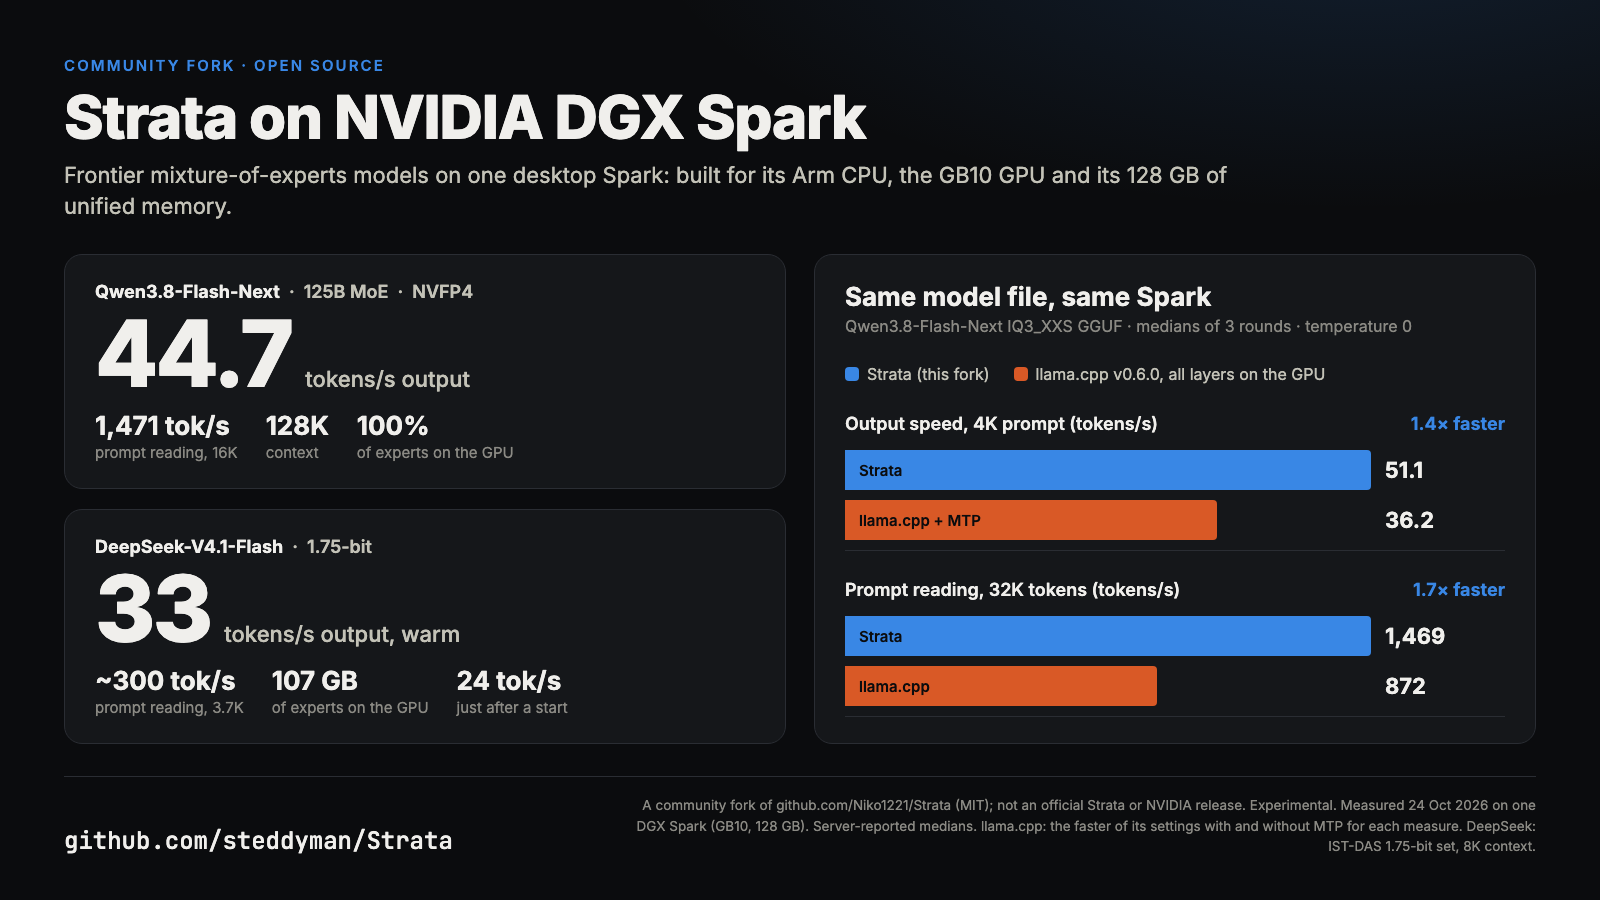
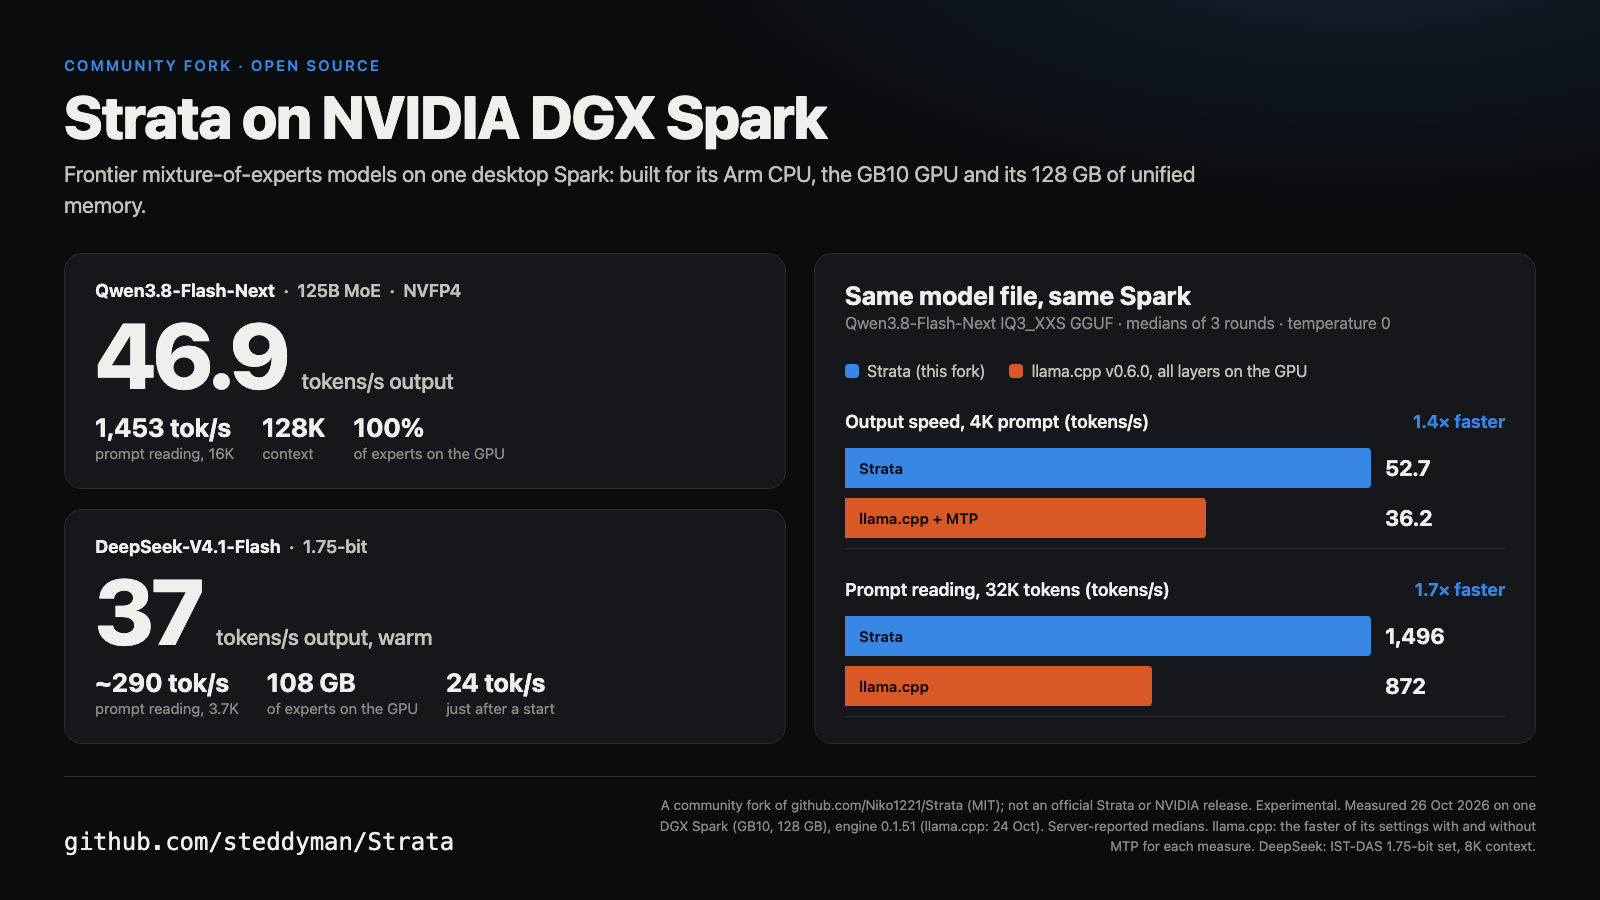
DGX Spark: README, guide and infographic with the 26 October speeds (engine 0.1.51)
Re-measured with each row's own method on engine 0.1.51 and the Spark speed settings:
Qwen NVFP4 chat 46.9 tok/s (was 44.7), prompts 1,312 / 1,453 tok/s (4K / 16K);
IQ3_XXS 52.7 tok/s (was 51.1), prompts 1,258 / 1,496 tok/s (4K / 32K);
DeepSeek 1.75 bpw 37 tok/s warm (was 33); 2.00 bpw unchanged (27.7).
spark/build_engine.sh uses Make when there is no ninja (a stock DGX OS).

diff --git a/docs/DGX_SPARK.md b/docs/DGX_SPARK.md
@@ -10,9 +10,9 @@ the engine (about 1.5 minutes on the Spark) and start Strata with `./setup.sh`.
 
 | Model | Answers | Reading your prompt | Context | Download | Quality |
 | --- | --- | --- | --- | --- | --- |
-| **Qwen3.8-Flash-Next NVFP4** | **44.7 tokens/s** | 1,330 tokens/s (4K) · 1,471 tokens/s (16K) | 128K, reads pictures | 128 GB | The best Qwen: closest to the full model |
-| **Qwen3.8-Flash-Next IQ3_XXS** | **51.1 tokens/s** | 1,266 tokens/s (4K) · 1,469 tokens/s (32K) | 64K as measured | 76 GB | 3-bit: smaller and faster, lower quality |
-| **DeepSeek-V4.1-Flash 1.75-bit** | **33 tokens/s** once warm (24 just after starting) | 195-300 tokens/s (3.7K) · 403 tokens/s (31K) | 8K by default, 128K tested* | 239 GB | Good for code and agents, weaker on plain prose |
+| **Qwen3.8-Flash-Next NVFP4** | **46.9 tokens/s** | 1,312 tokens/s (4K) · 1,453 tokens/s (16K) | 128K, reads pictures | 128 GB | The best Qwen: closest to the full model |
+| **Qwen3.8-Flash-Next IQ3_XXS** | **52.7 tokens/s** | 1,258 tokens/s (4K) · 1,496 tokens/s (32K) | 64K as measured | 76 GB | 3-bit: smaller and faster, lower quality |
+| **DeepSeek-V4.1-Flash 1.75-bit** | **37 tokens/s** once warm (24 just after starting) | 195-290 tokens/s (3.7K) · 403 tokens/s (31K) | 8K by default, 128K tested* | 239 GB | Good for code and agents, weaker on plain prose |
 | **DeepSeek-V4.1-Flash 2.00-bit** | **28 tokens/s** once warm (17 just after starting) | 175 tokens/s (3.7K) | 8K by default* | 257 GB | Better than 1.75-bit, slower here |
 
 On the same model file (IQ3_XXS) and the same Spark, Strata answers **1.4x faster** and reads a 32K prompt **1.7x
@@ -22,7 +22,8 @@ faster** than llama.cpp v0.6.0 ([the comparison](../bench/results/2026-10-24-dgx
 [Give DeepSeek a longer context](#give-deepseek-a-longer-context).
 
 "Answers" is how fast the reply is written. "Reading your prompt" is how fast Strata reads what you send before it
-starts to answer. All numbers are medians from one DGX Spark on 24 October 2026; the details are in
+starts to answer. All numbers are medians from one DGX Spark, engine 0.1.51 with the Spark speed settings, 26 October
+2026 (the "just after starting" figures: 24 October, memory emptied first); the details are in
 [How these were measured](#how-these-were-measured).
 
 ## Which model should I pick?
@@ -210,6 +211,11 @@ replies, 3 prompts each of 4K and 16K tokens, 15 agent turns.
 | first token, 16K prompt | 11.55 s | 10.97 s | 10.96 s |
 | agent turns, replies | 43.6 tokens/s | 43.1 tokens/s | 44.6 tokens/s |
 
+On 26 October 2026, engine 0.1.51 with the Spark speed settings (8-bit hyper-connection read, `--mtp-q4 all`, batched
+PLE; the default draft vocabulary), the same suite: chat replies **46.9 tokens/s** (43.1-62.2), 4K prompt 1,312
+tokens/s, 16K prompt 1,453 tokens/s (first token 11.10 s), agent turns 46.7 tokens/s, 70% of the agent's prompt
+reused. `--draft-vocab en` adds about 4.5% to answers in English.
+
 The first two columns are engine 0.1.48.1. Setup's tuning chose `--pool-workers 4` (43.9 tokens/s in its own
 measurement); its PCIe-share step changes nothing here (44.0-44.2 tokens/s at every value), because every expert is
 already on the GPU.
@@ -232,6 +238,10 @@ temperature 0 unless noted; full results in
 | reading a 4K prompt | **1,266 tokens/s** | 952 tokens/s | 881 tokens/s |
 | reading a 32K prompt | **1,469 tokens/s** | 872 tokens/s | 778 tokens/s |
 
+Re-measured on 26 October 2026 (Strata only, engine 0.1.51, the Spark speed settings, the same 3 rounds): replies
+after a 4K prompt **52.7 tokens/s** (49.2 at temperature 0.7), after a 32K prompt 46.7 (39.1; the 32K replies ranged
+42.6-53.4 over the rounds), reading a 4K prompt 1,258 tokens/s and a 32K prompt 1,496 tokens/s.
+
 llama.cpp ran with every layer on the GPU (`-ngl 99 -b 2048 -ub 2048`, 8-bit KV, flash attention); its settings were not
 tuned for the Spark.
 
@@ -247,6 +257,11 @@ IST-DAS 1.75-bit and 2.00-bit sets, setup's configuration (8K context, DSpark dr
 | **1.75-bit**, the engine built on a Mac (`spark/build_on_mac.sh`) | 26.7 tokens/s | 193.9 tokens/s | 20.8 tokens/s |
 | **2.00-bit**, started with memory empty (106.8 GB on the GPU, 33.2 GB from the SSD) | 17.4 tokens/s (12.2-26.3) | 175.1 tokens/s | 17.5 tokens/s |
 | **2.00-bit**, started with the model files cached | 28.4 tokens/s (15.2-40.8) | 174.7 tokens/s | 17.1 tokens/s |
+
+On 26 October 2026, engine 0.1.51 with `--dspark-conf 0.4` (setup's Spark setting), the same questions on a fresh
+server whose model files were still in the page cache, then a second run: the **1.75-bit** set answered 31.8, then
+**37.0 tokens/s** (prompt 185, then 286 tokens/s; after the prompt 22.6, then 25.4), with 108.2 GB of experts on the GPU;
+the **2.00-bit** set 20.3, then 27.7 tokens/s (prompt 179, then 252 tokens/s).
 
 Replies get faster as a model warms up, because the experts it reads from the SSD stay in memory. The DSpark drafter
 accepted 80-95% of its tokens on these questions. For comparison, the DeepSeek release measured 4.7 tokens/s on an RTX

diff --git a/README.md b/README.md
@@ -30,15 +30,15 @@
 shared by both. It runs Qwen3.8-Flash-Next (a 125-billion-parameter model) and DeepSeek-V4.1-Flash on a single Spark,
 with every Qwen expert on the GPU.
 
-<p align="center"><img src="docs/media/dgx-spark-speeds.png" width="800" alt="Strata on NVIDIA DGX Spark: Qwen3.8-Flash-Next NVFP4 at 44.7 tokens a second and 1,471 tokens a second prompt reading; DeepSeek-V4.1-Flash 1.75-bit at 33 tokens a second; 1.4 times faster output and 1.7 times faster prompt reading than llama.cpp on the same model file"></p>
+<p align="center"><img src="docs/media/dgx-spark-speeds.png" width="800" alt="Strata on NVIDIA DGX Spark: Qwen3.8-Flash-Next NVFP4 at 46.9 tokens a second and 1,453 tokens a second prompt reading; DeepSeek-V4.1-Flash 1.75-bit at 37 tokens a second; 1.4 times faster output and 1.7 times faster prompt reading than llama.cpp on the same model file"></p>
 
 **Speed on one DGX Spark**
 
 | Model | Answers | Reading your prompt | Context | Download | Quality |
 | --- | --- | --- | --- | --- | --- |
-| **Qwen3.8-Flash-Next NVFP4** | **44.7 tokens/s** | 1,330 tokens/s (4K) · 1,471 tokens/s (16K) | 128K, reads pictures | 128 GB | The best Qwen: closest to the full model |
-| **Qwen3.8-Flash-Next IQ3_XXS** | **51.1 tokens/s** | 1,266 tokens/s (4K) · 1,469 tokens/s (32K) | 64K as measured | 76 GB | 3-bit: smaller and faster, lower quality |
-| **DeepSeek-V4.1-Flash 1.75-bit** | **33 tokens/s** once warm (24 just after starting) | 195-300 tokens/s (3.7K) · 403 tokens/s (31K) | 8K by default, 128K tested* | 239 GB | Good for code and agents, weaker on plain prose |
+| **Qwen3.8-Flash-Next NVFP4** | **46.9 tokens/s** | 1,312 tokens/s (4K) · 1,453 tokens/s (16K) | 128K, reads pictures | 128 GB | The best Qwen: closest to the full model |
+| **Qwen3.8-Flash-Next IQ3_XXS** | **52.7 tokens/s** | 1,258 tokens/s (4K) · 1,496 tokens/s (32K) | 64K as measured | 76 GB | 3-bit: smaller and faster, lower quality |
+| **DeepSeek-V4.1-Flash 1.75-bit** | **37 tokens/s** once warm (24 just after starting) | 195-290 tokens/s (3.7K) · 403 tokens/s (31K) | 8K by default, 128K tested* | 239 GB | Good for code and agents, weaker on plain prose |
 | **DeepSeek-V4.1-Flash 2.00-bit** | **28 tokens/s** once warm (17 just after starting) | 175 tokens/s (3.7K) | 8K by default* | 257 GB | Better than 1.75-bit, slower here |
 
 On the same model file and the same Spark, Strata answers **1.4x faster** and reads long prompts **1.7x faster** than
@@ -47,7 +47,8 @@ llama.cpp ([the comparison](bench/results/2026-10-24-dgx-spark-vs-llamacpp/READM
 \* Setup gives DeepSeek an 8K context. Coding agents need more: the guide shows how to raise it to 128K, which was
 tested with the 1.75-bit set (a 31,000-token prompt read correctly).
 
-Medians measured on one DGX Spark on 24 October 2026; how each number was measured is in
+Medians measured on one DGX Spark with engine 0.1.51 on 26 October 2026 (the "just after starting" figures and the
+128K test on 24 October); how each number was measured is in
 [the DGX Spark guide](docs/DGX_SPARK.md#how-these-were-measured).
 
 **Start here: [docs/DGX_SPARK.md](docs/DGX_SPARK.md)**: which model to pick, how to build and install it, and how to
